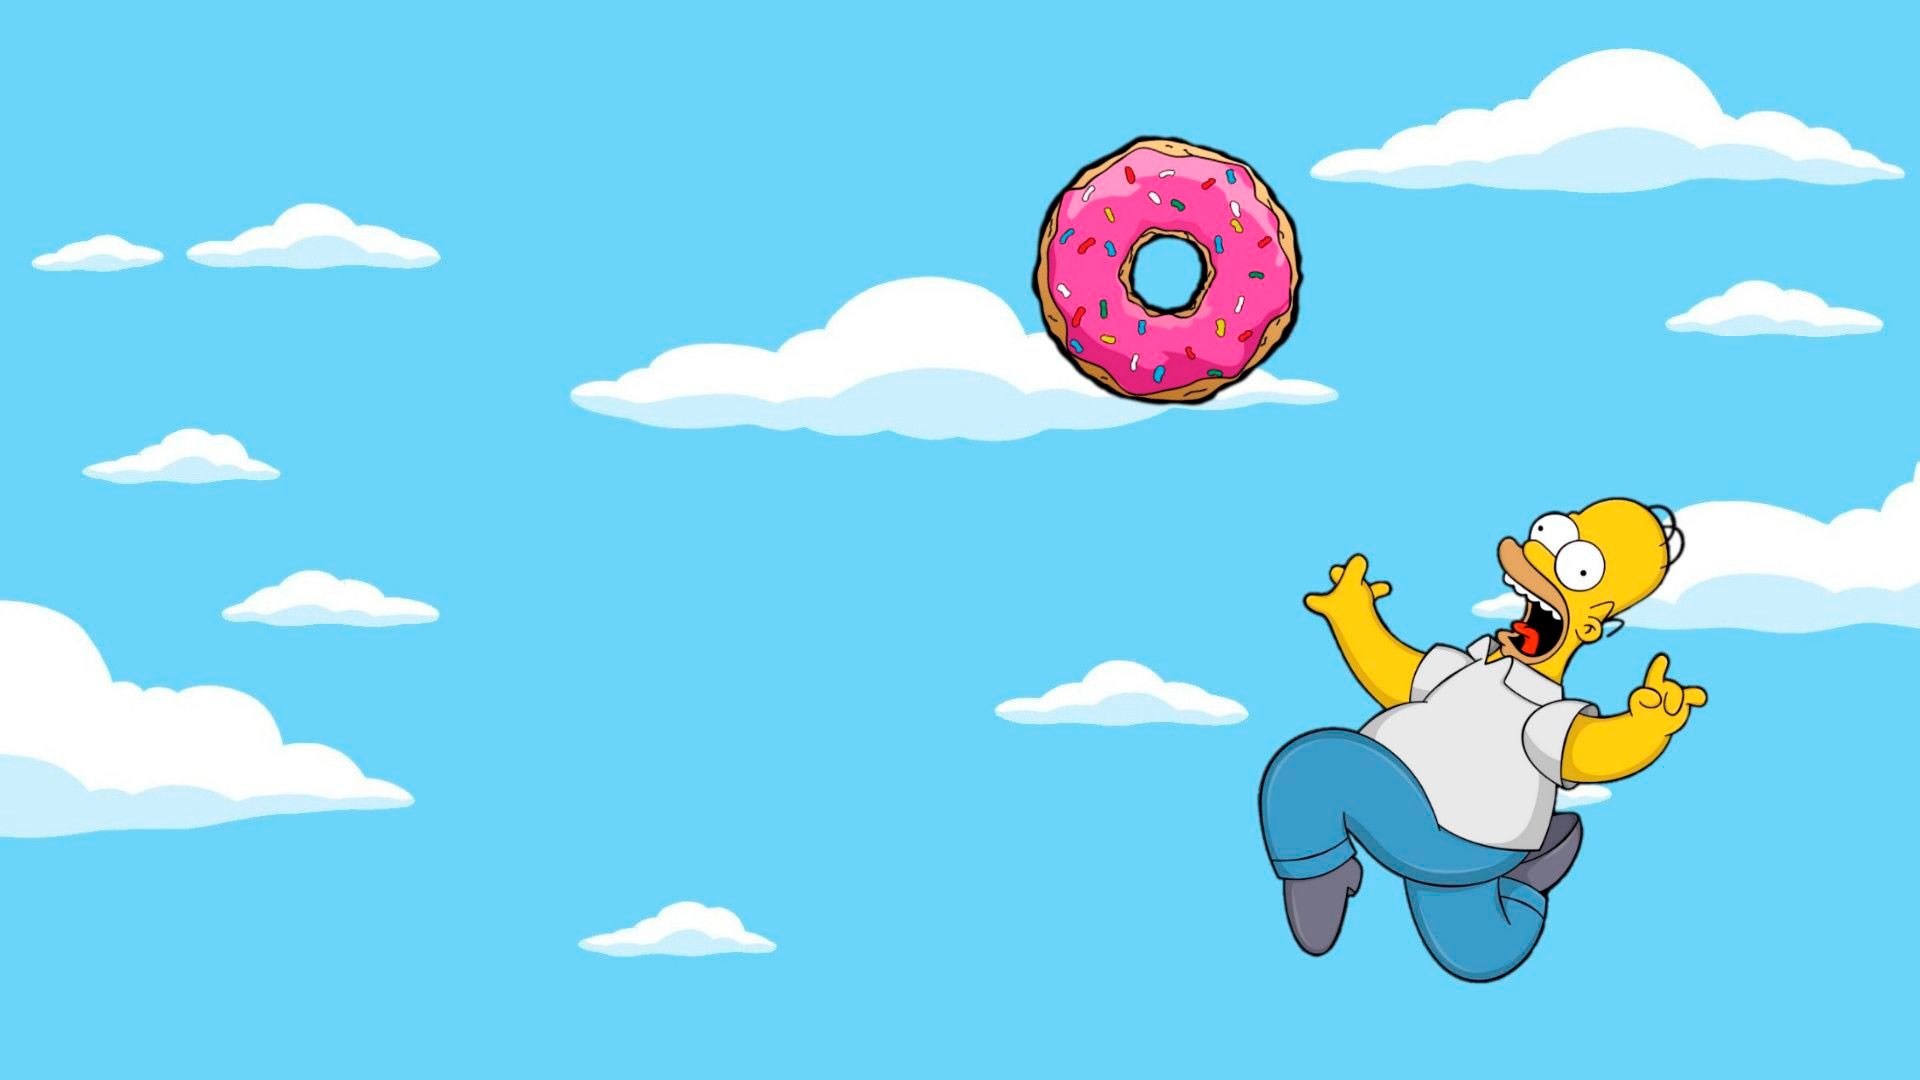
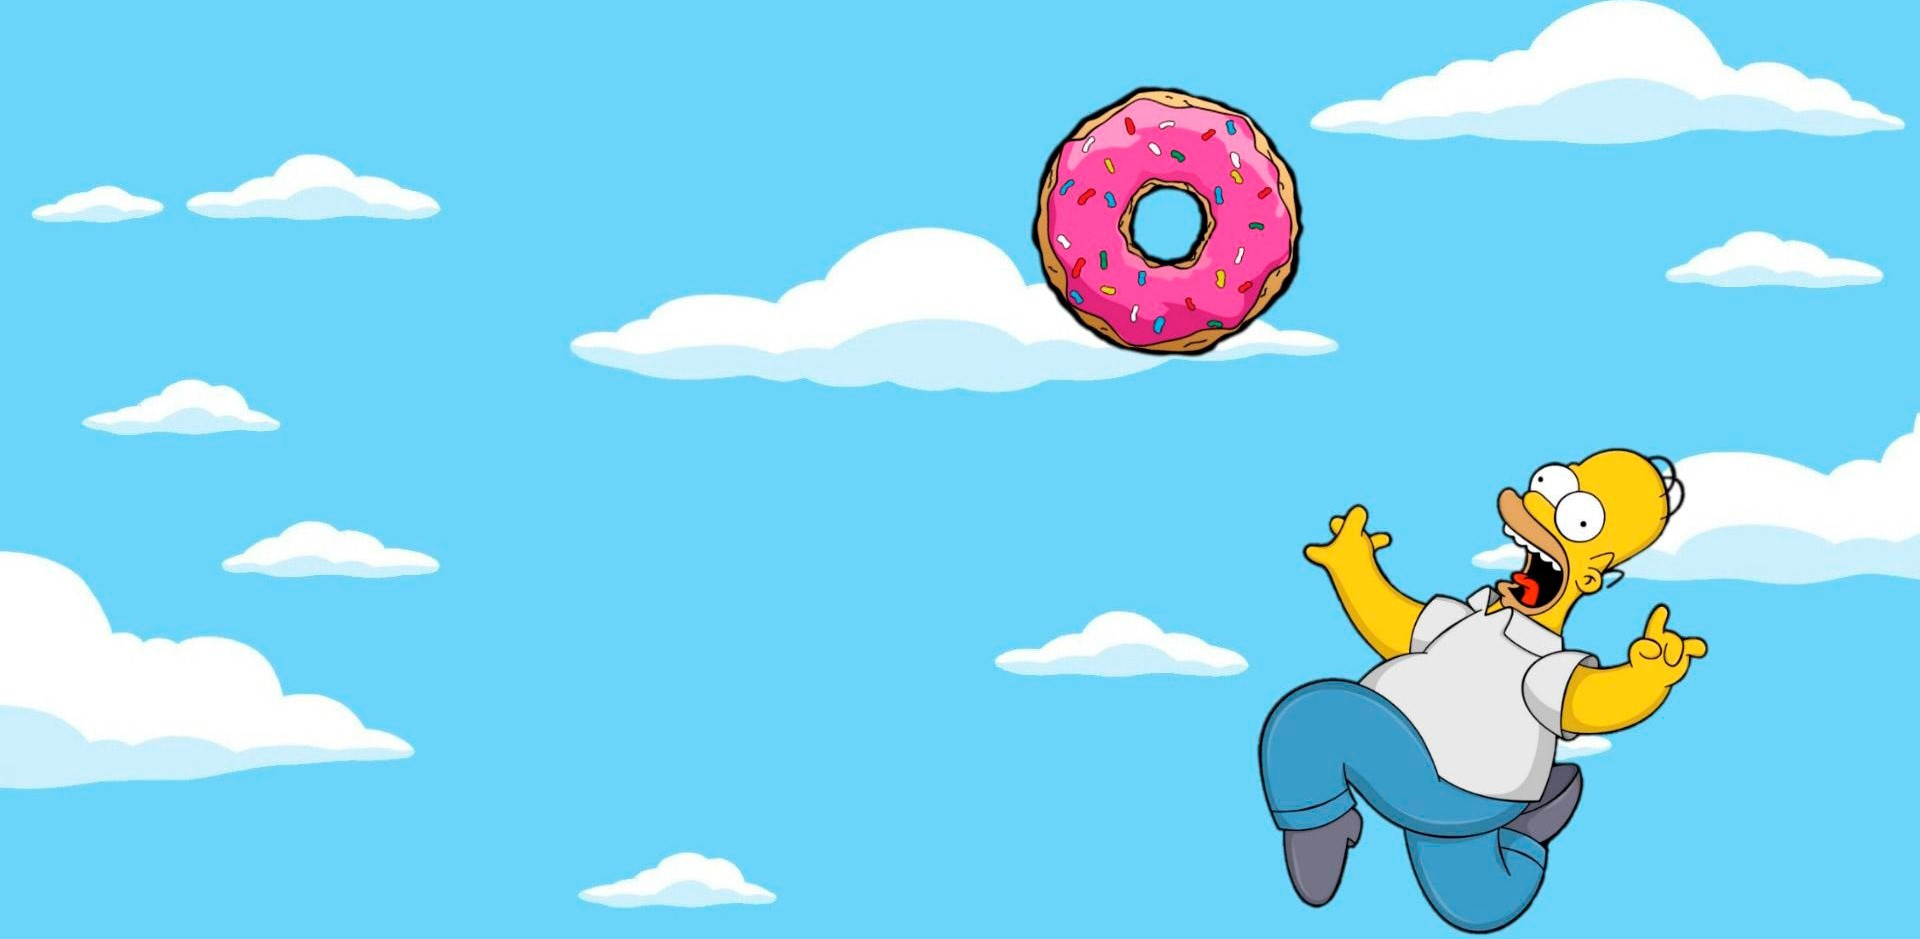
'updated'

diff --git a/Styles/style.css b/Styles/style.css
@@ -75,7 +75,7 @@ body{
       display: flex;
       flex-direction: column;
       justify-content: center;
-      padding: 10px;
+      padding: 15px;
   }
   #start{
     font-size: 1rem;
@@ -94,17 +94,13 @@ body{
       width: 30px;
       display: flex;
   }
-  .homePage{
+  .bottom{
     background-image: url(../img/backgroud-start.jpg);
     background-repeat: no-repeat;
     background-size:100%;
-    bottom: 0;
     color: black;
-    left: 0;
     overflow: auto;
-    padding: 3em;
-    position: absolute;
-    right: 0;
+   height: 800px;
     text-align: center;
     top: 0;
 
@@ -120,14 +116,18 @@ body{
     justify-content: center;
     font-size: 40px;
     text-shadow: 0.1em 0.1em 0.2em black;
-    margin: 50px;
-    padding-top: 100px;
-    padding-bottom: 100px;
+    margin: 40px;
+    padding-bottom: 20px;
    }
    p{
     color: white;
     display: flex;
     justify-content: center; 
     text-shadow: 0.1em 0.1em 0.2em black; 
-    margin: 20px;
+    margin: 5px;
+   }
+   .p1{
+       color: #f05aa1;
+       text-shadow:none;
+       margin: 10px;
    }

diff --git a/home.html b/home.html
@@ -8,9 +8,11 @@
     <body>
         <div class="homePage">
         
-        <div><h1>Help Homer to get fit!</h1></div>
+        <div class ="cover">
+            <h1>Help Homer to get fit!</h1>
+        </div>
         <div>
-            <p>O Homer não pode comer nenhuma rosquinha, ajude-o a se manter fit pulando todas elas.</p>
+            <p class="p1">O Homer não pode comer nenhuma rosquinha, ajude-o a se manter fit pulando todas elas.</p>
             <div class="btn-area">
                 <a href="index.html"><button id="start">Jogar</button></a>
             </div>
@@ -18,6 +20,7 @@
             <p>Para pular pressione a tecla "espaço"</p>
             
         </div>
+        <div class ="bottom"></div>
        
     </div>
     </body>

diff --git a/README.MD b/README.MD
@@ -14,3 +14,6 @@ This game is a project for Ironhack bootcamp, it is for for student learning.
 ## Development
 
 Want to contribute? Great!
+
+
+[Clique Aqui](https://jessicanonato.github.io/Project-1-Game/home.html)
